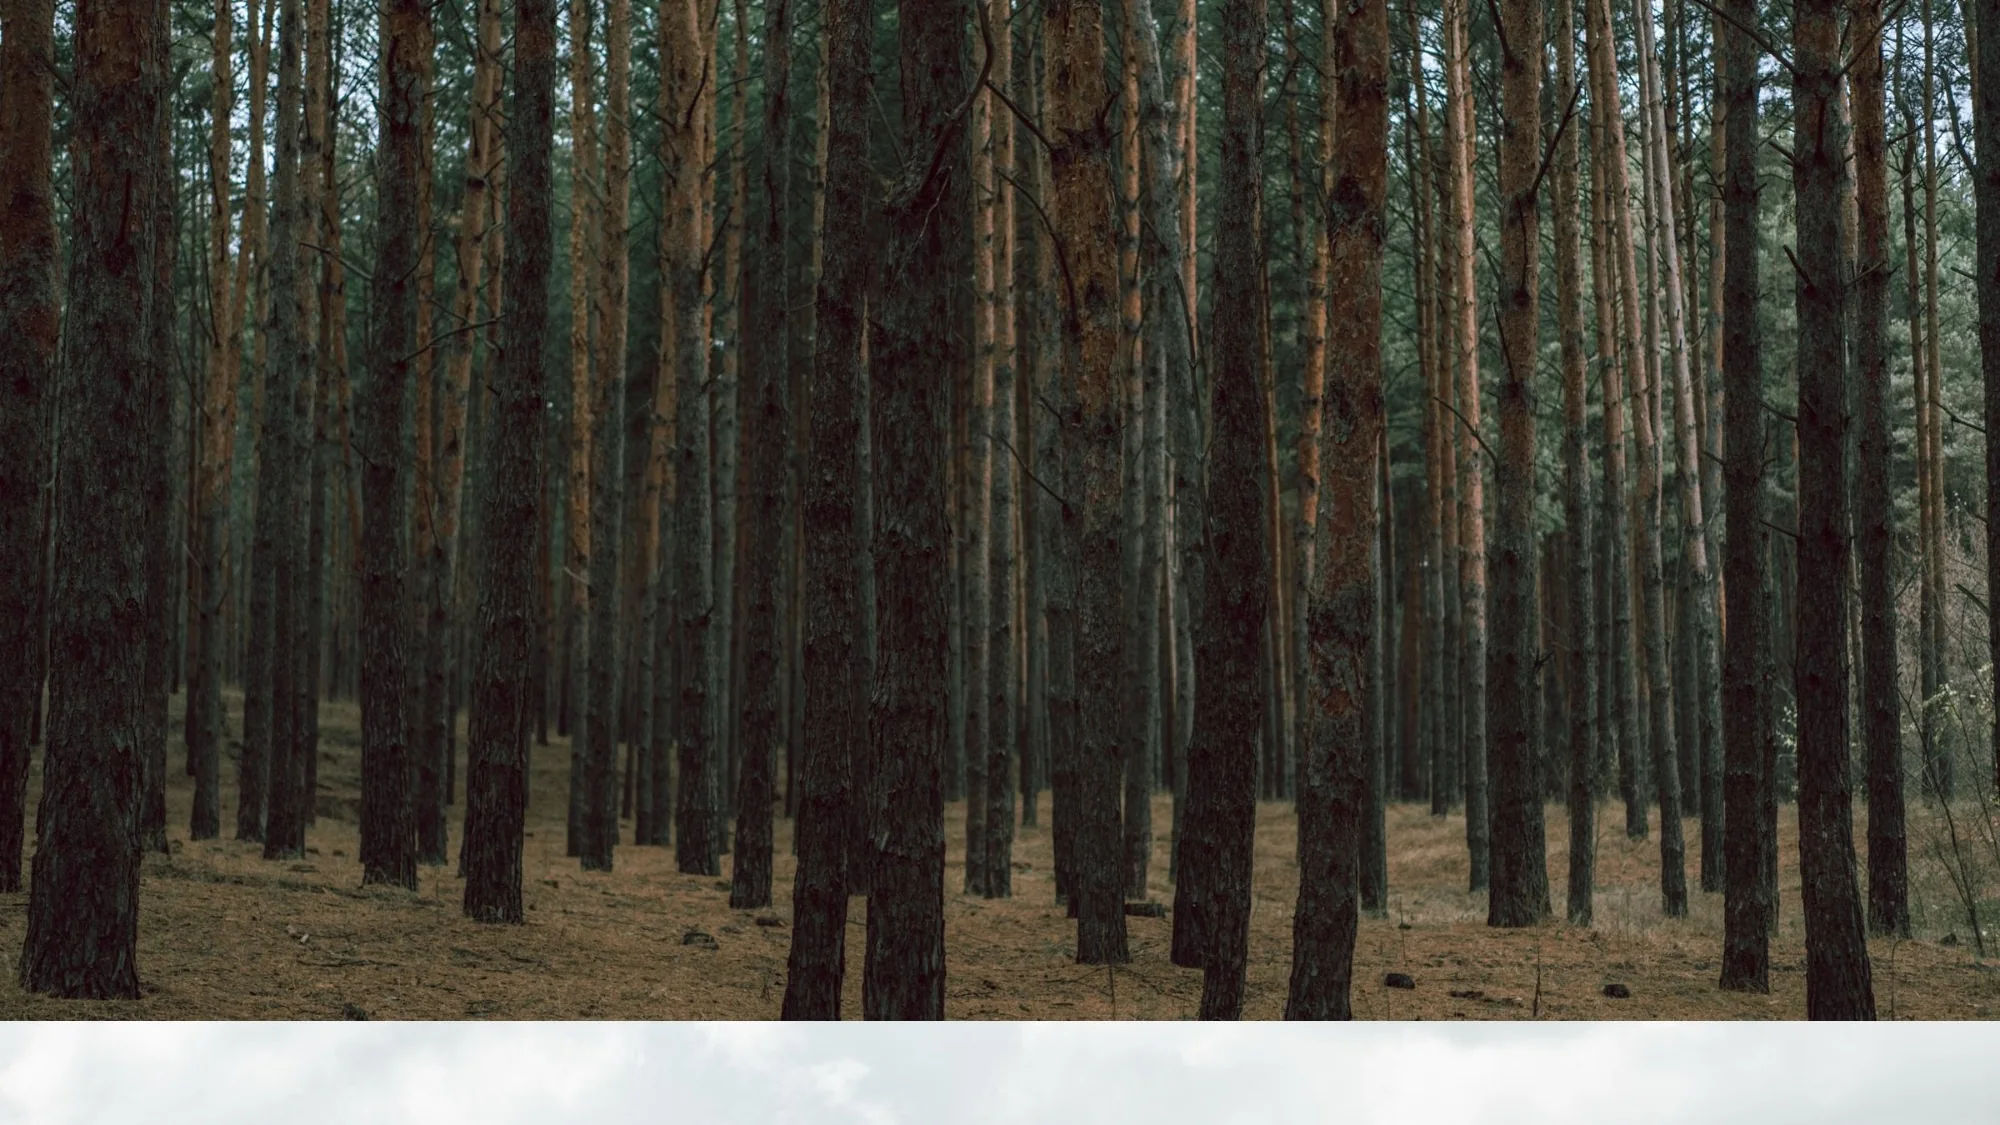
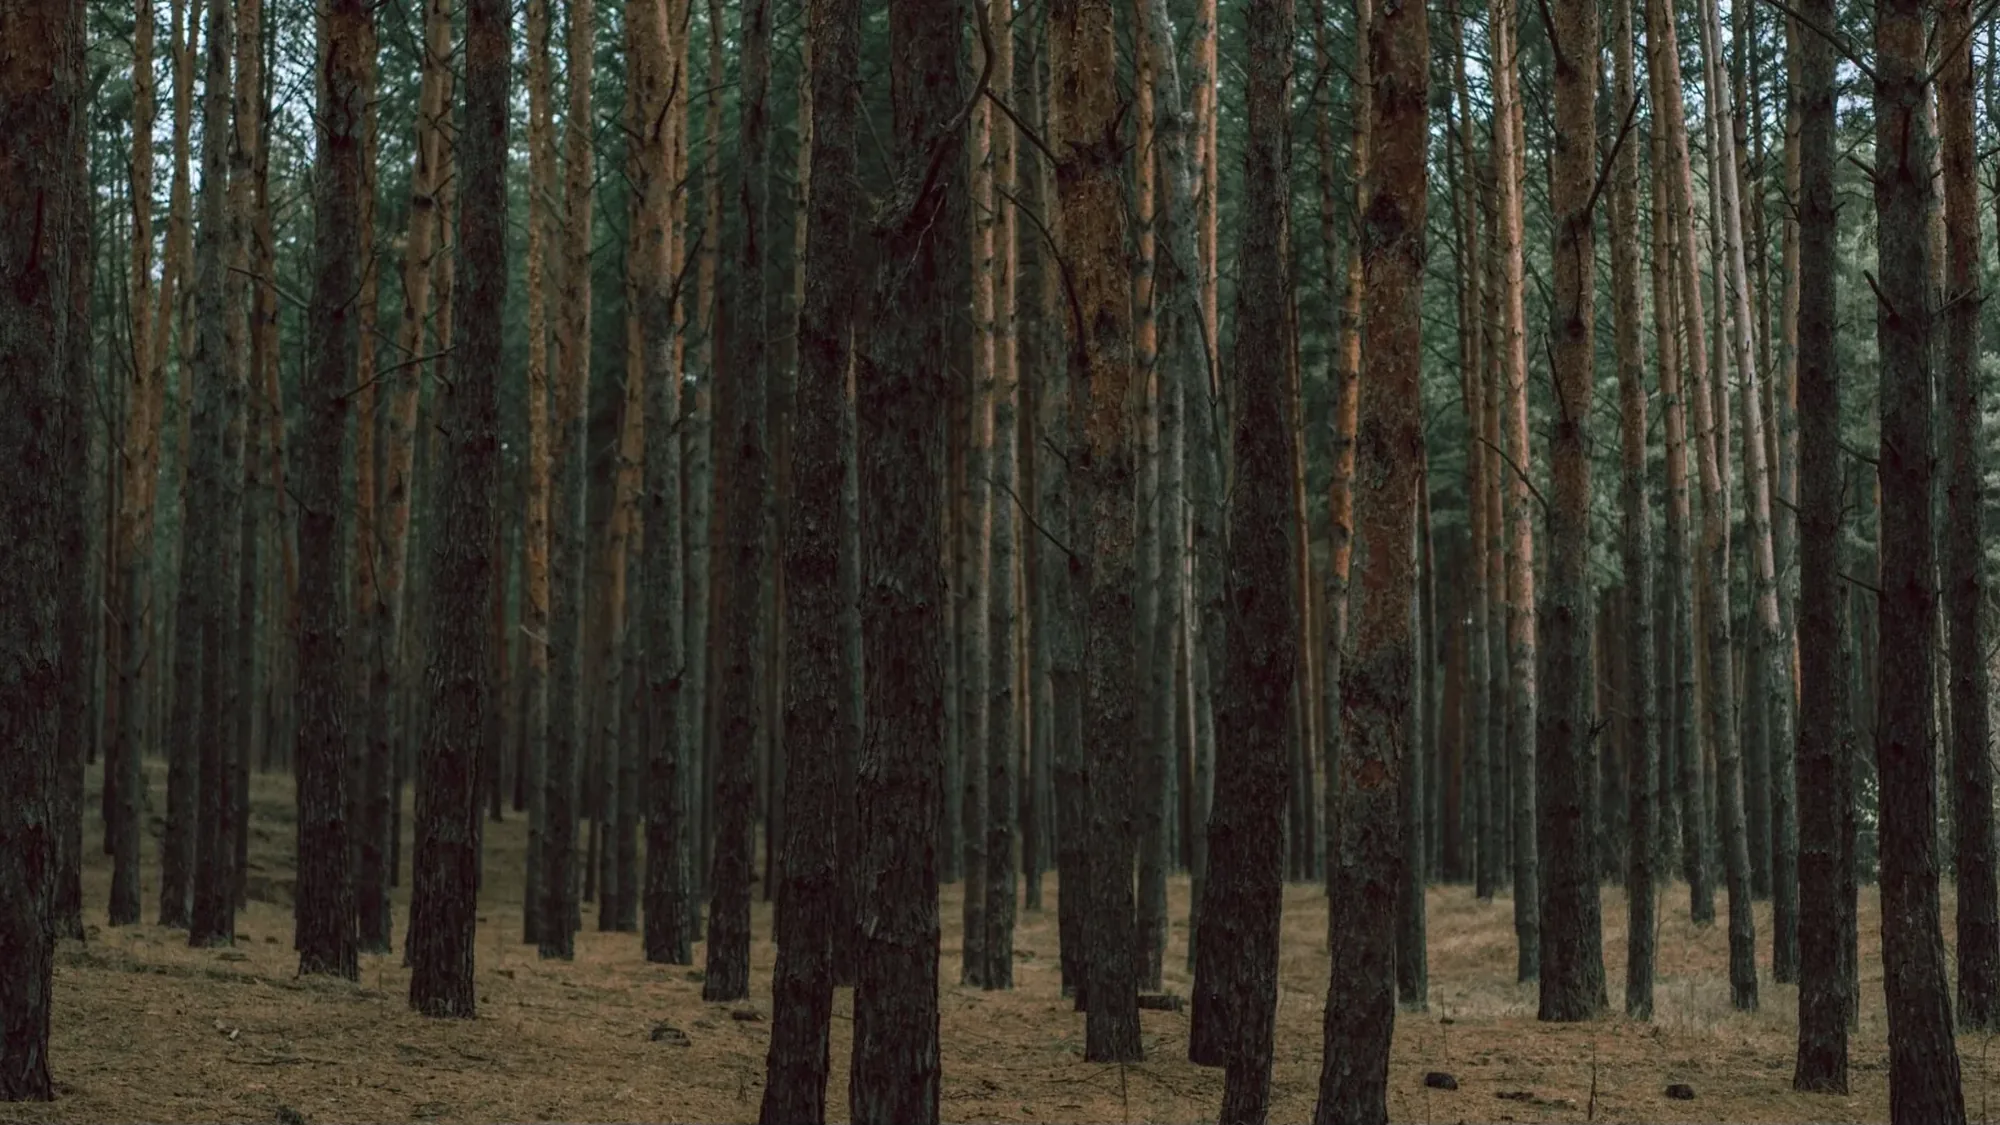
Fix mobile hero fold; strip baked-in image seams

diff --git a/assets/styles.css b/assets/styles.css
@@ -305,6 +305,24 @@ p:last-child { margin-bottom: 0; }
 /* ---------- responsive -------------------------------------------------- */
 
 @media (max-width: 820px) {
+  /* Fill the viewport so the couch anchors the fold with no gap beneath it.
+     svh accounts for mobile browser chrome; vh is the fallback. */
+  .hero {
+    /* Header is a deterministic 5rem + 1px border, so the hero can claim
+       exactly the rest of the fold. svh accounts for mobile browser chrome;
+       vh is the fallback for older engines. */
+    min-height: calc(100vh - 5rem - 1px);
+    min-height: calc(100svh - 5rem - 1px);
+    padding-block: clamp(2rem, 7vw, 3.25rem) 42vw;
+    display: flex;
+    align-items: center;
+    /* Oversized so the couch reads as an anchor rather than a thin ribbon.
+       The arms crop; the seat stays centred. */
+    background-size: 140% auto;
+    background-position: center bottom;
+  }
+  .hero__inner { width: 100%; }
+
   .nav-toggle__btn { display: block; }
   .nav {
     position: absolute; left: 0; right: 0; top: 100%;
@@ -366,8 +384,9 @@ p:last-child { margin-bottom: 0; }
 }
 .photostrip::after {
   content: ""; position: absolute; inset: 0;
-  background: linear-gradient(180deg, rgba(248,247,246,.35) 0%, rgba(248,247,246,0) 35%,
-                                       rgba(248,247,246,0) 65%, rgba(248,247,246,.35) 100%);
+  /* Top fade only. A bottom cream fade sat against the dark footer and read as a
+     separate pale strip. */
+  background: linear-gradient(180deg, rgba(248,247,246,.32) 0%, rgba(248,247,246,0) 38%);
 }
 .photostrip--trail  { background-image: url("co-trail.webp"); }
 .photostrip--basin  { background-image: url("co-basin.webp"); }
@@ -382,8 +401,7 @@ p:last-child { margin-bottom: 0; }
 }
 .banner::after {
   content: ""; position: absolute; inset: 0;
-  background: linear-gradient(180deg, rgba(248,247,246,.30) 0%, rgba(248,247,246,0) 40%,
-                                       rgba(248,247,246,0) 60%, rgba(248,247,246,.30) 100%);
+  background: linear-gradient(180deg, rgba(248,247,246,.30) 0%, rgba(248,247,246,0) 40%);
 }
 .banner--pines  { background-image: url("co-pines.webp"); }
 .banner--peaks  { background-image: url("co-peaks.webp"); }

diff --git a/README.md b/README.md
@@ -71,6 +71,9 @@ JavaScript.
 
 Hero background is `#d5d8d2`, sampled from the couch photo's wall so the join is
 invisible; the couch starts 32.6% down the image, hence `padding-bottom: 27vw`.
+Under 820px the hero claims `calc(100svh - 5rem - 1px)` (the header's exact
+height) and scales the couch to `140% auto` so it anchors the fold flush to the
+bottom with no gap.
 
 ## Open items
 
